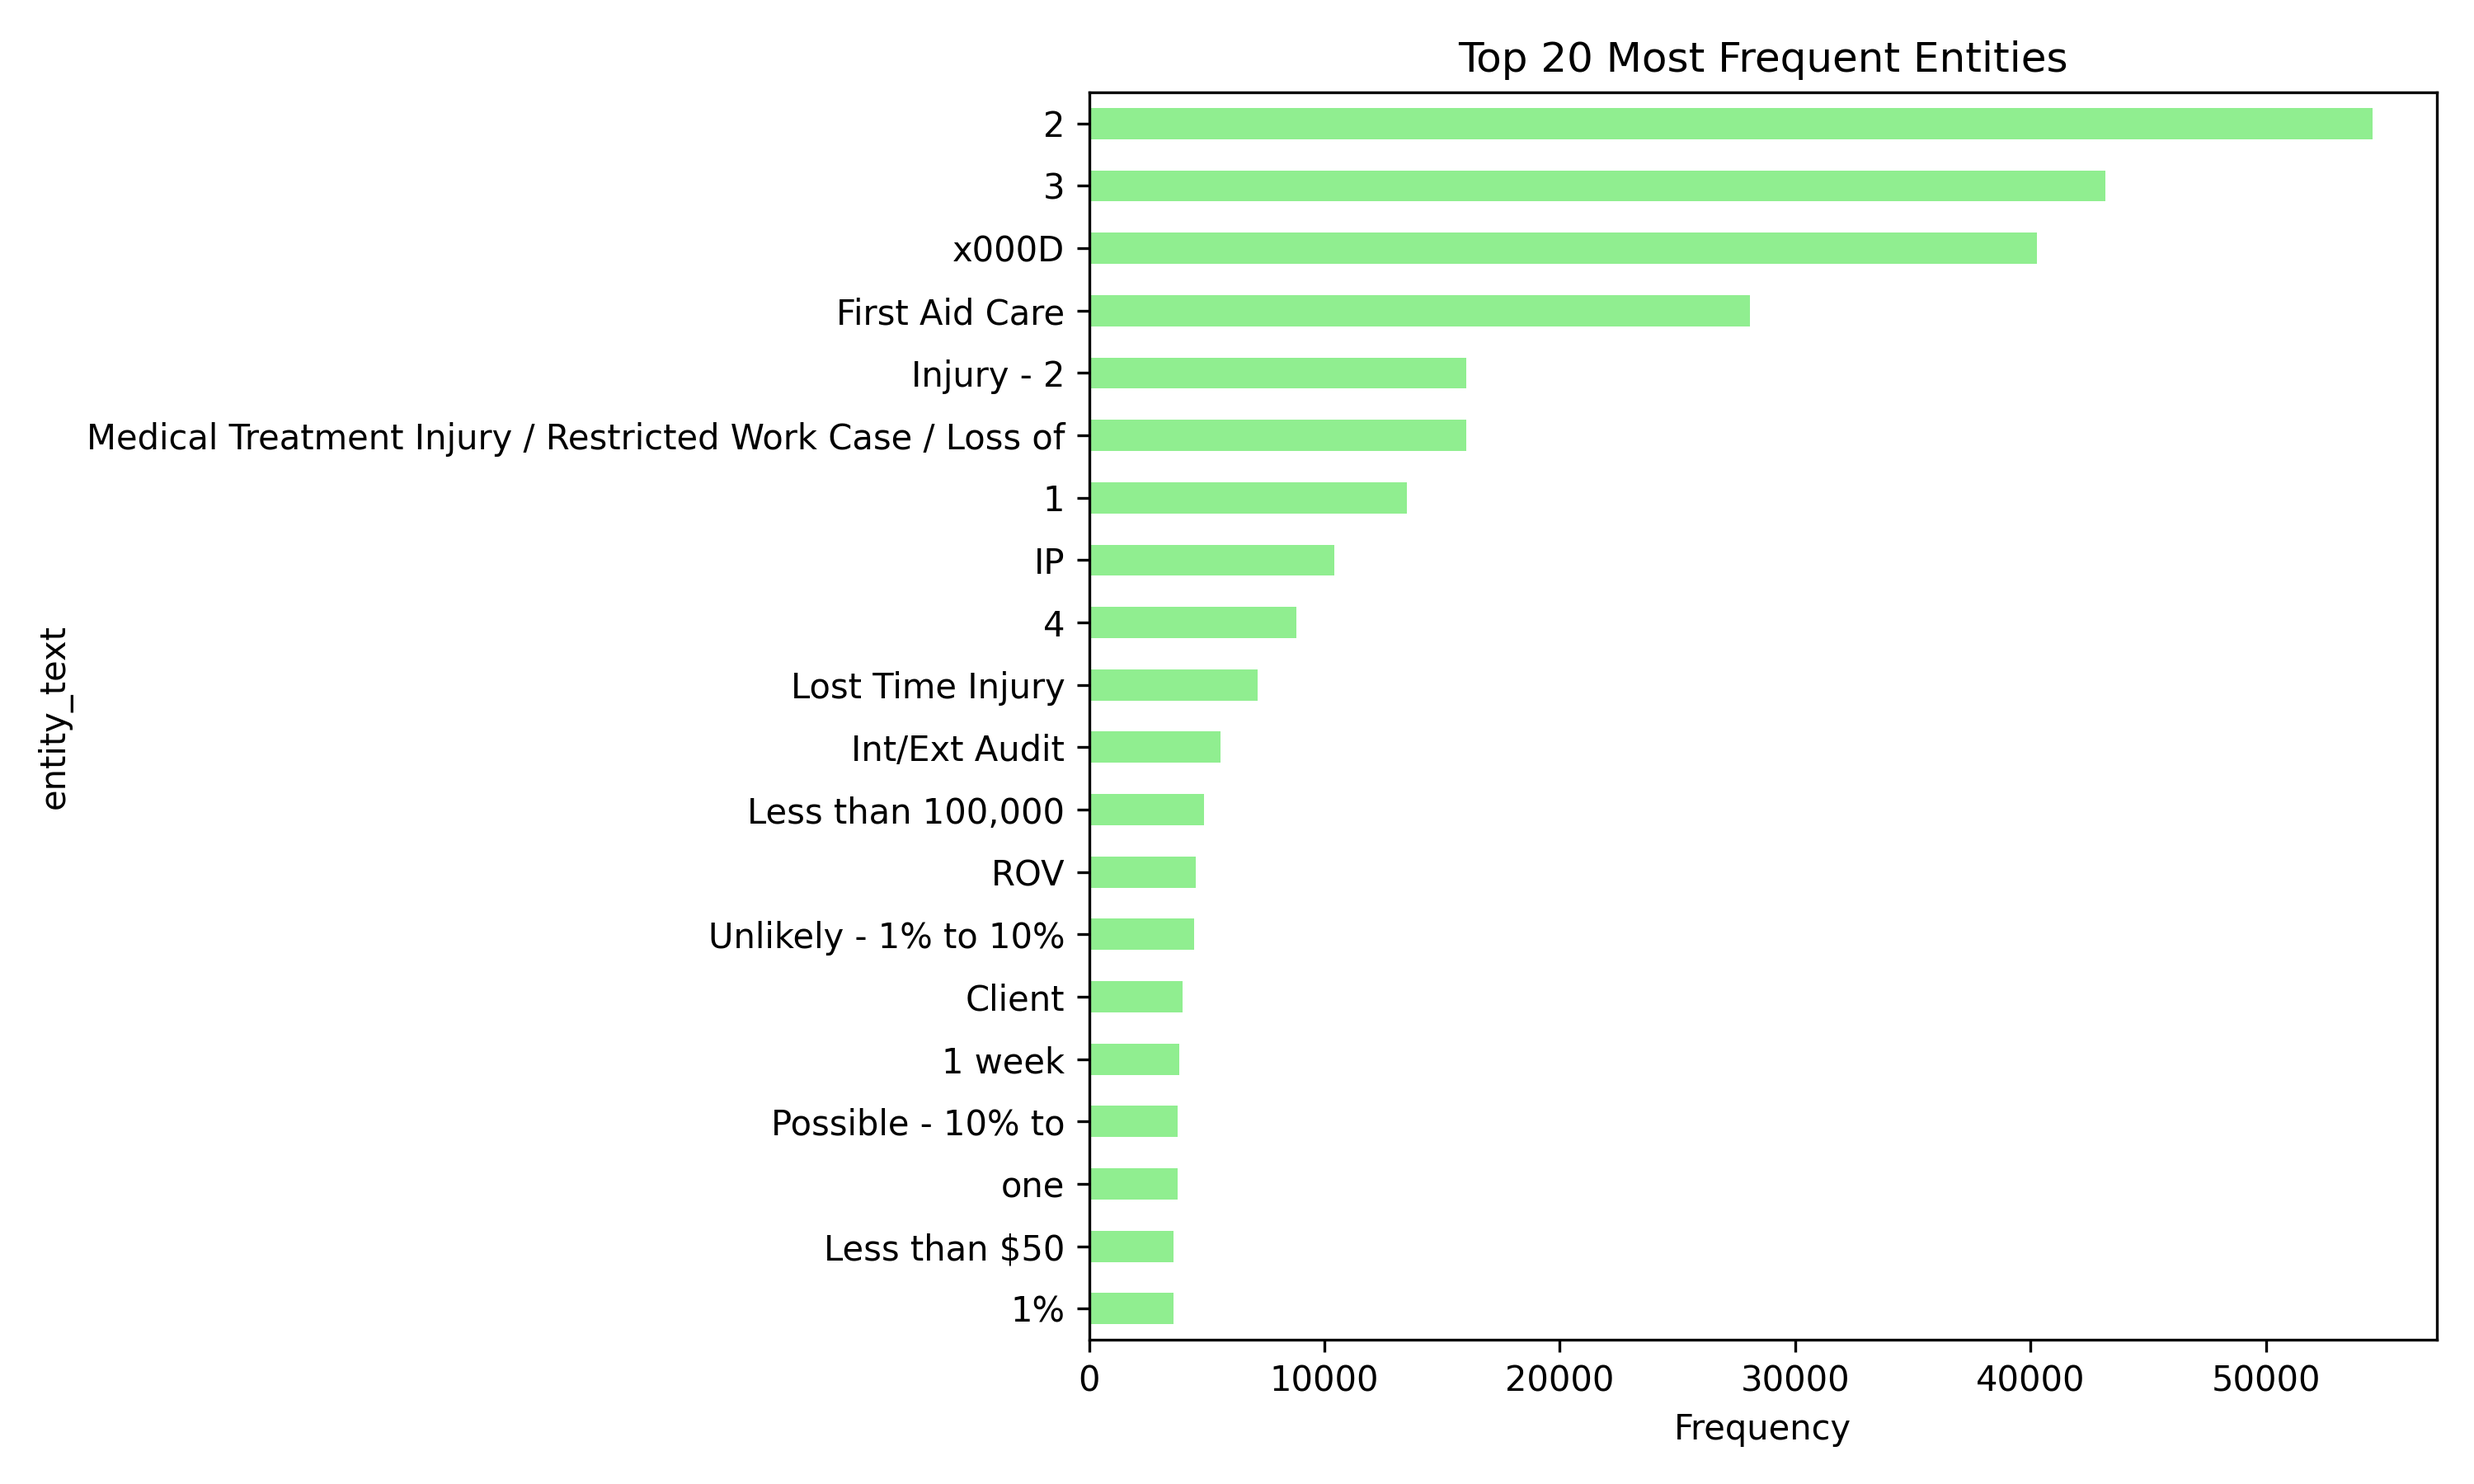
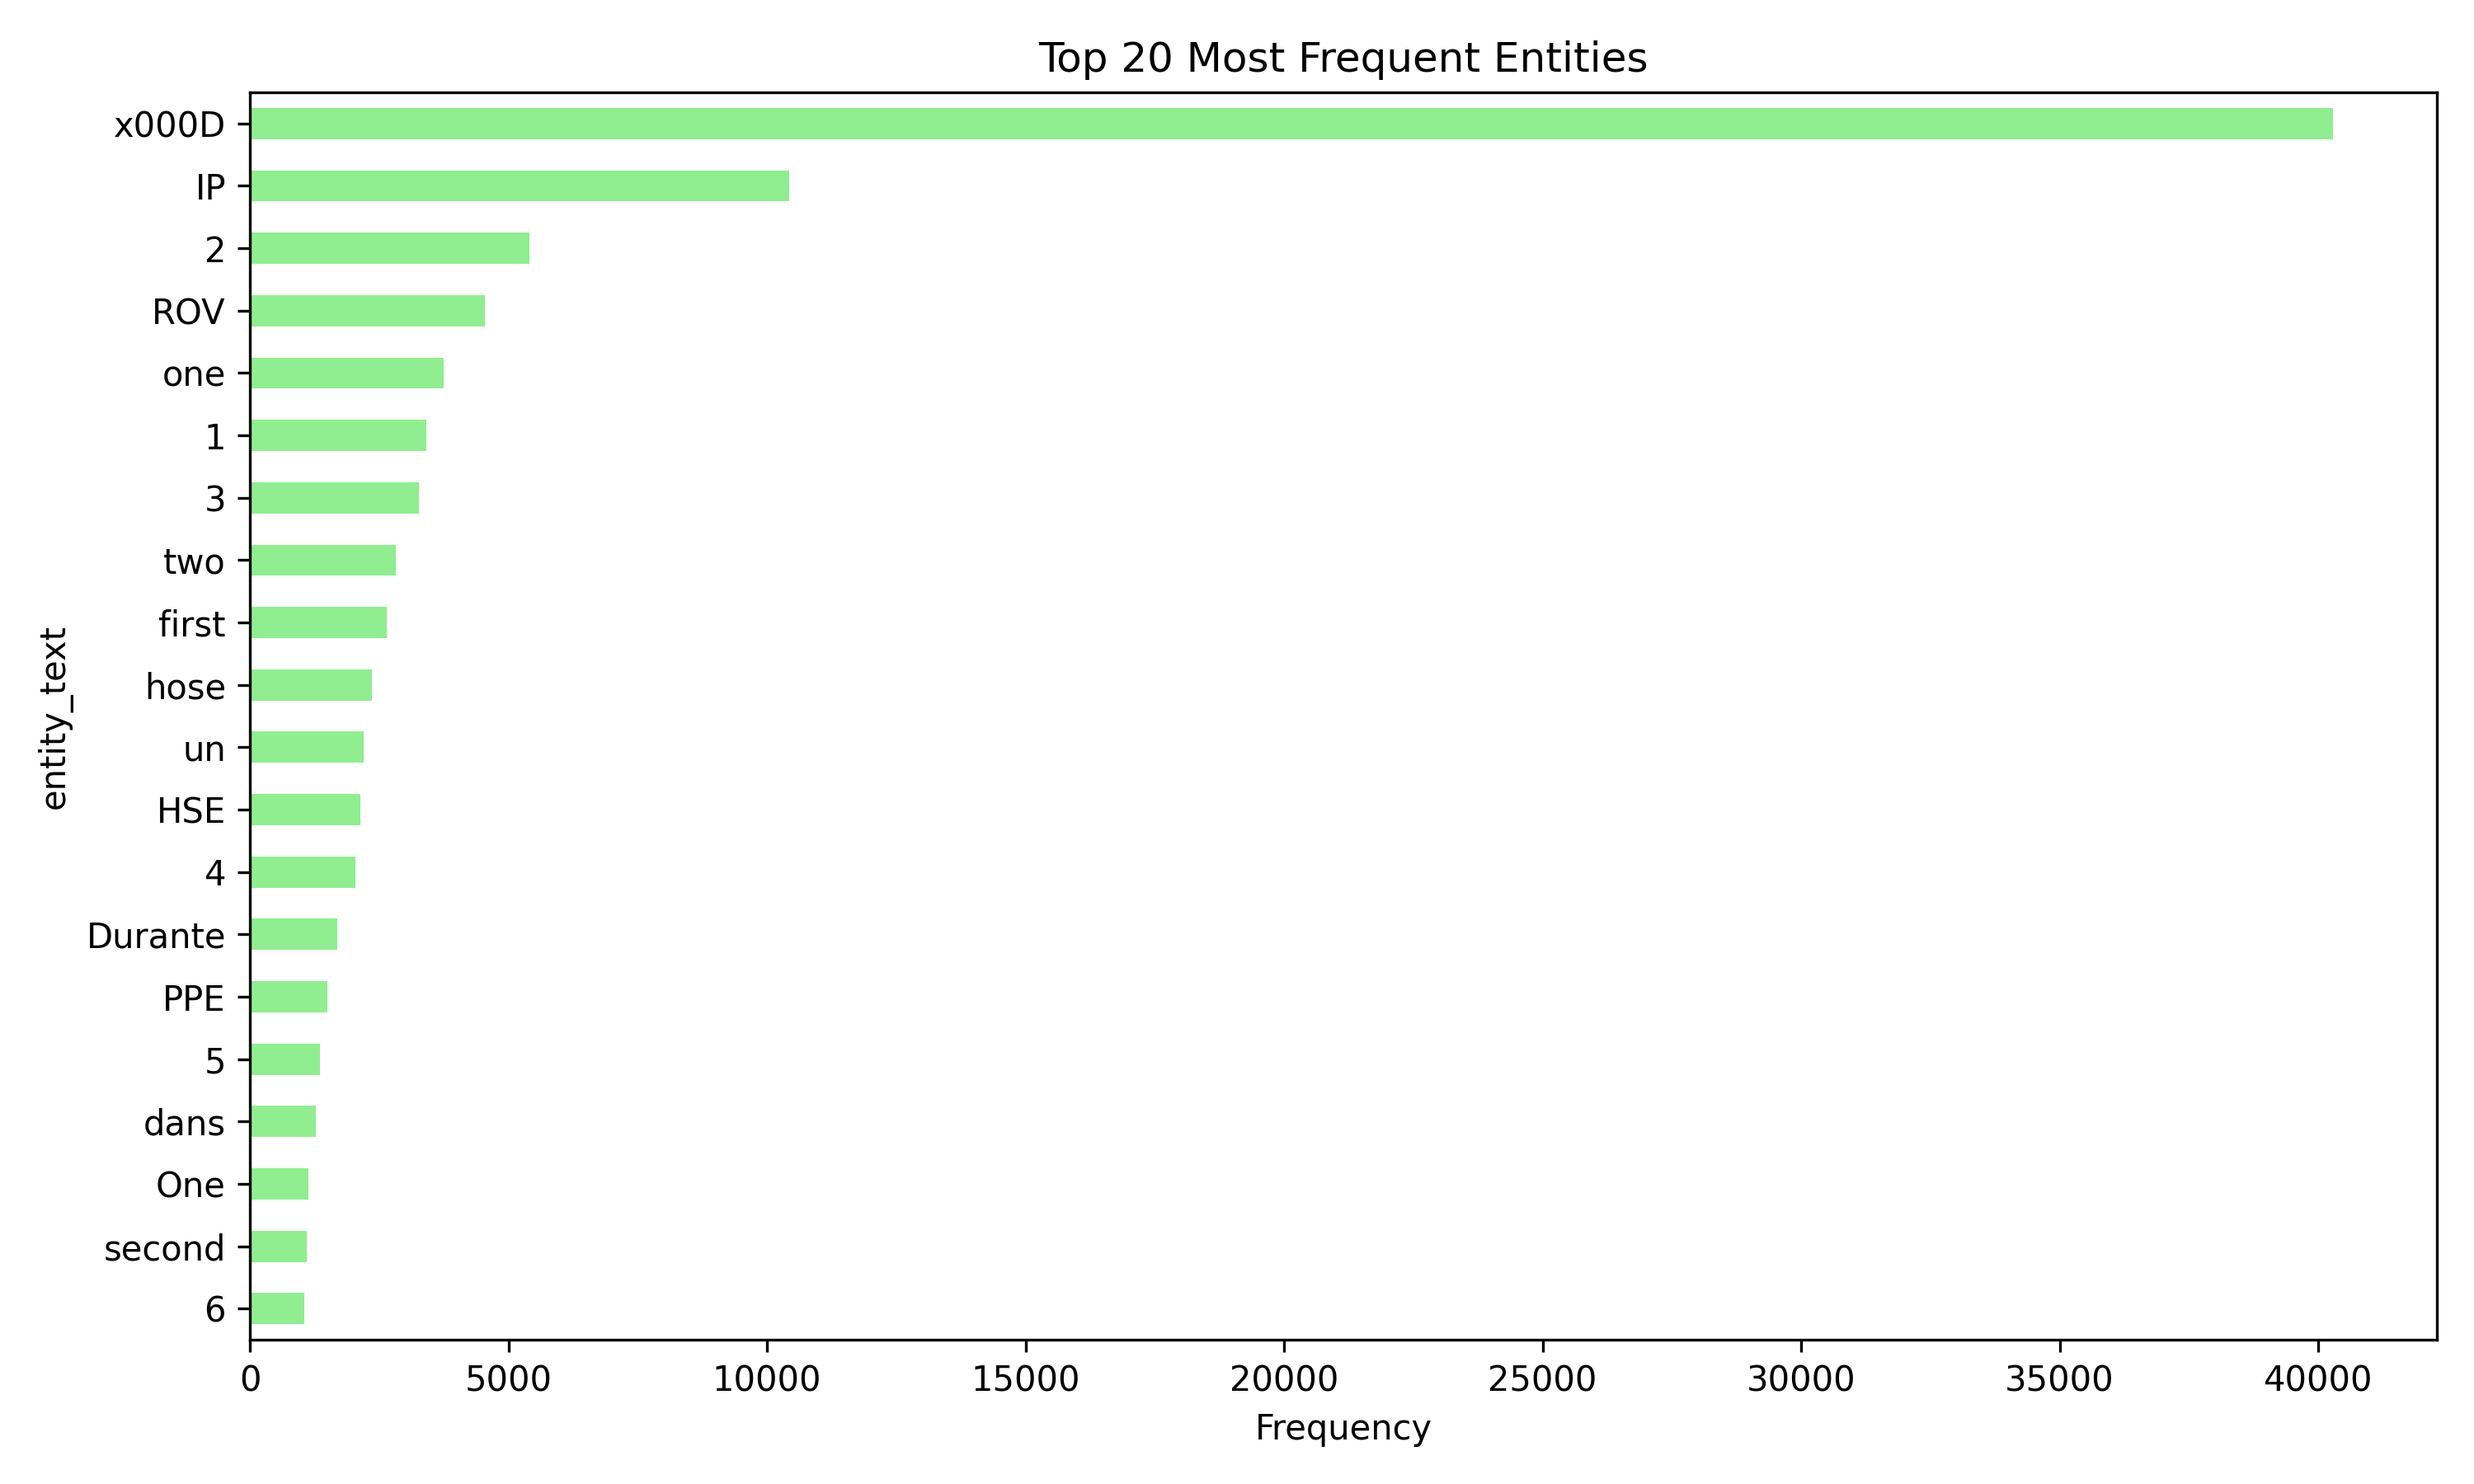
DESCRIPTION COl only column that matters

diff --git a/eda/ner.py b/eda/ner.py
@@ -81,7 +81,6 @@ class NERAnalysis:
     def explode_entities(self, entity_cols: List[str] = None) -> pd.DataFrame:
         """
         Flatten all *_entities columns into a single DataFrame with entity_text and entity_label.
-        Handles cases where entity lists are stored as strings or contain NaN/None.
         """
         if self.ner_df is None: raise ValueError("NER dataframe is not set. Run extract_entities() or set_ner_by_csv() first.")
         
@@ -176,6 +175,10 @@ class NERAnalysis:
             #plt.show()
 
 
+# Found Another Potential Column: LIKELIHOOD_DESCRIPTION
+# Found Another Potential Column: DESCRIPTION
+# Found Another Potential Column: DAMAGE_DESCRIPTION
+# Found Another Potential Column: PERSON_RESPONSIBLE_COST_CENTER_DESCRIPTION
 
 if __name__ == "__main__":
     # Check if using GPU
@@ -190,6 +193,14 @@ if __name__ == "__main__":
 
     analyzer = NERAnalysis(df, description_kws, nlp)
 
+    # DATA EXPLORATION (see which description columns actually matter)
+    # desc_cols = analyzer._get_descriptions()
+    # for col in desc_cols:
+    #     non_na_values = df[col][df[col].notna()]
+    #     print(f"\n--- {col} (Non-NA Sample) ---")
+    #     print(non_na_values.head(10))  # Print first 10 non-NA values for inspection
+    #     print(f"{col}: {df[col].notna().sum()} non-NA values")
+
     # UNCOMMENT AND RUN THIS FIRST 
     # df_with_entities = analyzer.extract_entities()
     # analyzer.set_ner_df(df_with_entities)
@@ -199,9 +210,9 @@ if __name__ == "__main__":
     # Change Param to File path where you saved df 
     analyzer.set_ner_by_csv(ENTITY_NER_CSV)
 
-    analyzer.plot_entity_label_distribution()
-    analyzer.plot_top_entities()
-    analyzer.plot_top_entities_per_label()
+    analyzer.plot_entity_label_distribution(entity_cols=["DESCRIPTION_entities"])
+    analyzer.plot_top_entities(entity_cols=["DESCRIPTION_entities"])
+    analyzer.plot_top_entities_per_label(entity_cols=["DESCRIPTION_entities"])
 
 
 
